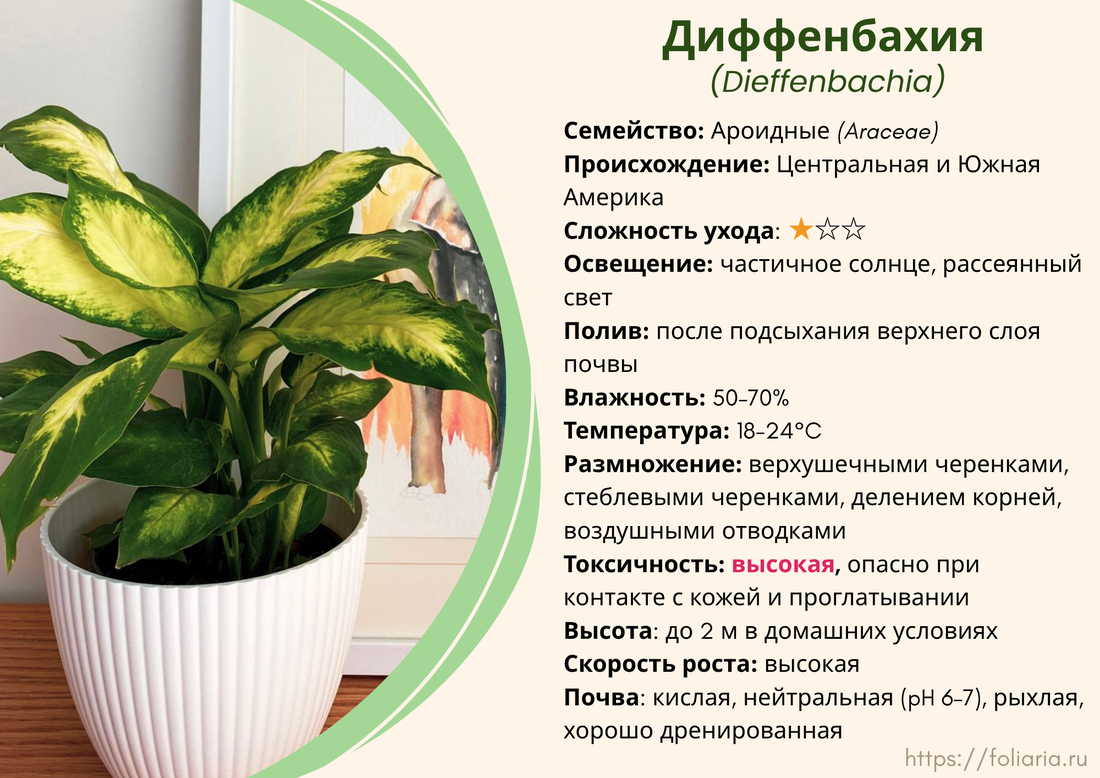
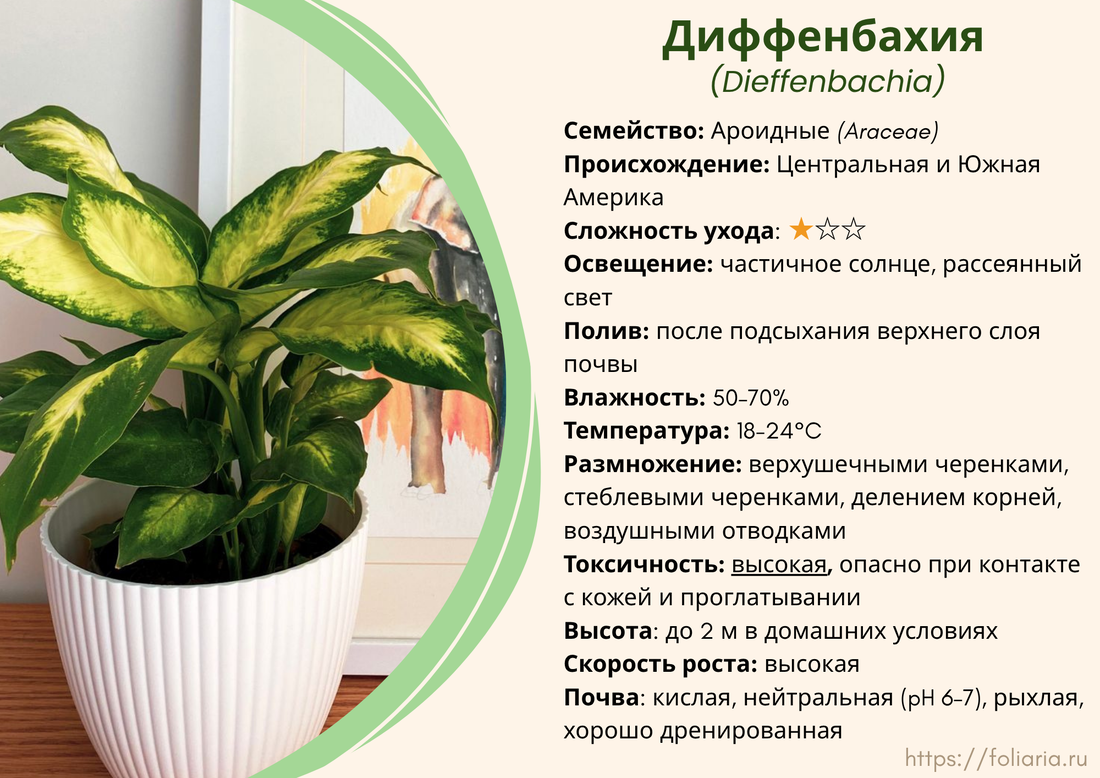
ver 149

Changed region(s): [[0.5255, 0.7095, 0.9891, 0.8021]]

diff --git a/src/content/komnatnye-rasteniya/spisok-po-alfavitu/d/dieffenbachia.md b/src/content/komnatnye-rasteniya/spisok-po-alfavitu/d/dieffenbachia.md
@@ -61,3 +61,15 @@ category: {
 Поливайте диффенбахию обильно, затем обязательно сливайте излишки воды из поддона. Постоянно влажный грунт затрудняет доступ кислорода к корням и может привести к их загниванию. А при длительном недостатке влаги листья начинают поникать, а их края могут становиться коричневыми и сухими.
 
 Средней влажности воздуха в помещении часто бывает достаточно, однако диффенбахия лучше себя чувствует при умеренной или повышенной влажности — около 50–60% и выше. Если воздух в комнате слишком сухой, используйте увлажнитель. Периодическое опрыскивание листьев может быть полезным, однако оно не обеспечивает заметного и длительного повышения влажности воздуха.
+
+## Грунт
+Для диффенбахии подходит рыхлый, хорошо дренированный грунт, который удерживает достаточно влаги, но при этом не переувлажняется. Можно использовать качественный универсальный субстрат для комнатных растений, если он обладает легкой воздухопроницаемой структурой. Также подойдут готовые почвенные смеси для декоративно-лиственных или ароидных растений.
+
+Чтобы улучшить дренаж и обеспечить корням доступ кислорода, смешайте универсальный грунт с перлитом и сосновой корой средней или мелкой фракции в пропорции 2:1:1. 
+
+## Удобрения и подкормки 
+В период активного роста, который обычно продолжается с весны до начала осени, диффенбахию рекомендуется регулярно подкармливать. Для этого подойдет сбалансированное жидкое удобрение для комнатных или декоративно-лиственных растений. Начните с подкормки раз в четыре недели, при необходимости корректируя частоту с учетом концентрации удобрения, условий содержания и состава грунта.
+
+Зимой, когда рост растения замедляется, подкормки следует сократить или временно прекратить. Особенно это актуально для диффенбахии, которая содержится в прохладном помещении или при недостаточном освещении.
+
+## Размножение
